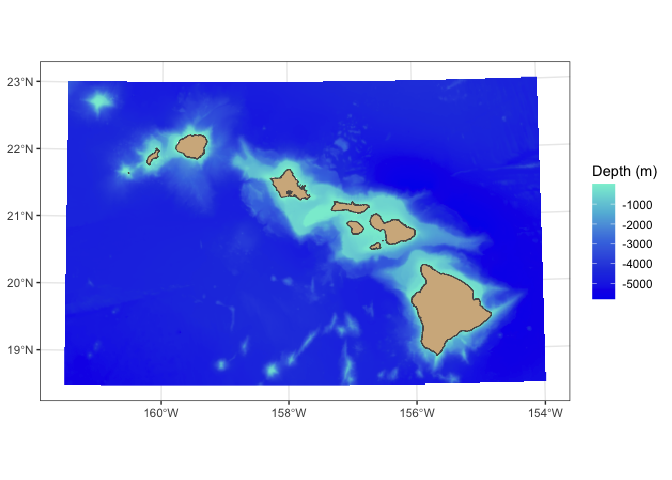
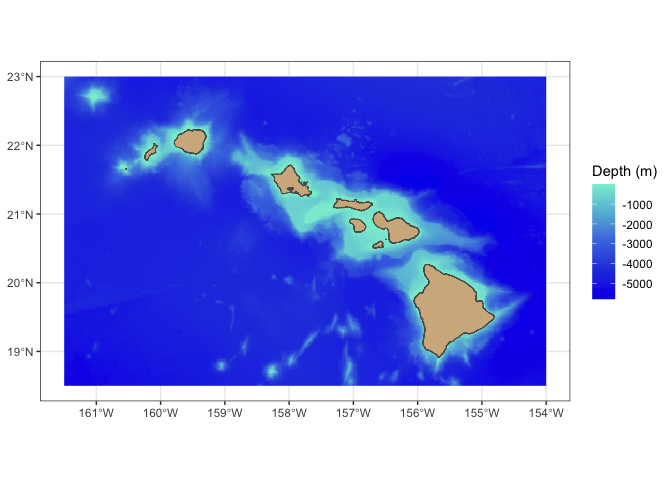
update fix for manual osm download

diff --git a/README.md b/README.md
@@ -67,6 +67,17 @@ data in the storage directory. When data is downloaded. The `.shp` files
 will be imported to `R` and transformed to a searchable `.gpkg` file. If
 `clean_shp=TRUE` the downloaded `.shp` files will be deleted.
 
+Occasionally, the download capability might not work for some system
+setups. So visit the website
+<https://osmdata.openstreetmap.de/data/land-polygons.html> and hit the
+first download button labeled: “Format: Shapefile, Projection: WGS84
+(Large polygons not split)”. Upon completion, move the
+“land-polygons-complete-4326.zip” file to the directory chosen in the
+`set_data_storage()` step. To get a refresher, the function
+`get_data_loc()` will show you what is currently set. After this, you
+should be able to run the `osm_download()` function and it will use the
+manually downloaded zip file.
+
 To download the ETOPO bathymetry rasters, use the following
 
 ``` r
@@ -90,14 +101,16 @@ adequate.`union=FALSE` will maintain separate single polygons for land.
 
 ``` r
 library(sf)
-#> Linking to GEOS 3.11.0, GDAL 3.5.3, PROJ 9.1.0; sf_use_s2() is TRUE
+#> Warning: package 'sf' was built under R version 4.5.2
+#> Linking to GEOS 3.13.0, GDAL 3.8.5, PROJ 9.5.1; sf_use_s2() is TRUE
 library(terra)
-#> terra 1.8.10
+#> Warning: package 'terra' was built under R version 4.5.2
+#> terra 1.8.86
 library(crsuggest)
 #> Using the EPSG Dataset v10.019, a product of the International Association of Oil & Gas Producers. 
 #> Please view the terms of use at https://epsg.org/terms-of-use.html.
 library(picMaps)
-#> picMaps 0.1.9011 (January 27, 2025)
+#> picMaps 0.1.9022 (January 5, 2026)
 
 x <- st_bbox(c(xmin=198.5, xmax=206, ymin=18.5, ymax=23), crs=4326) |>
   st_as_sfc()
@@ -105,7 +118,6 @@ prj <- as.numeric(suggest_crs(x)$crs_code[[1]])
 x <- st_transform(x, prj) |> st_as_sf()
 
 mhi <- osm_coast(x, keep=0.2, union=FALSE)
-#> Re-reading with feature count reset from 120 to 119
 ```
 
 Now we will obtain the associated bathysphere data
@@ -119,6 +131,7 @@ And finally, use them in a plot.
 
 ``` r
 library(ggplot2)
+#> Warning: package 'ggplot2' was built under R version 4.5.2
 library(ggspatial)
 
 tropic_ocean <- rev(c("#8aeed5","#63b9db","#4479e1","#2645e0","#071eed"))
@@ -128,7 +141,7 @@ ggplot() +
   scale_fill_gradientn(colours=tropic_ocean, name="Depth (m)", na.value = NA) +
   layer_spatial(data=mhi, fill="tan") +
   theme_bw()
-#> Warning: Removed 9376 rows containing missing values or values outside the scale range
+#> Warning: Removed 5226 rows containing missing values or values outside the scale range
 #> (`geom_raster()`).
 ```
 
